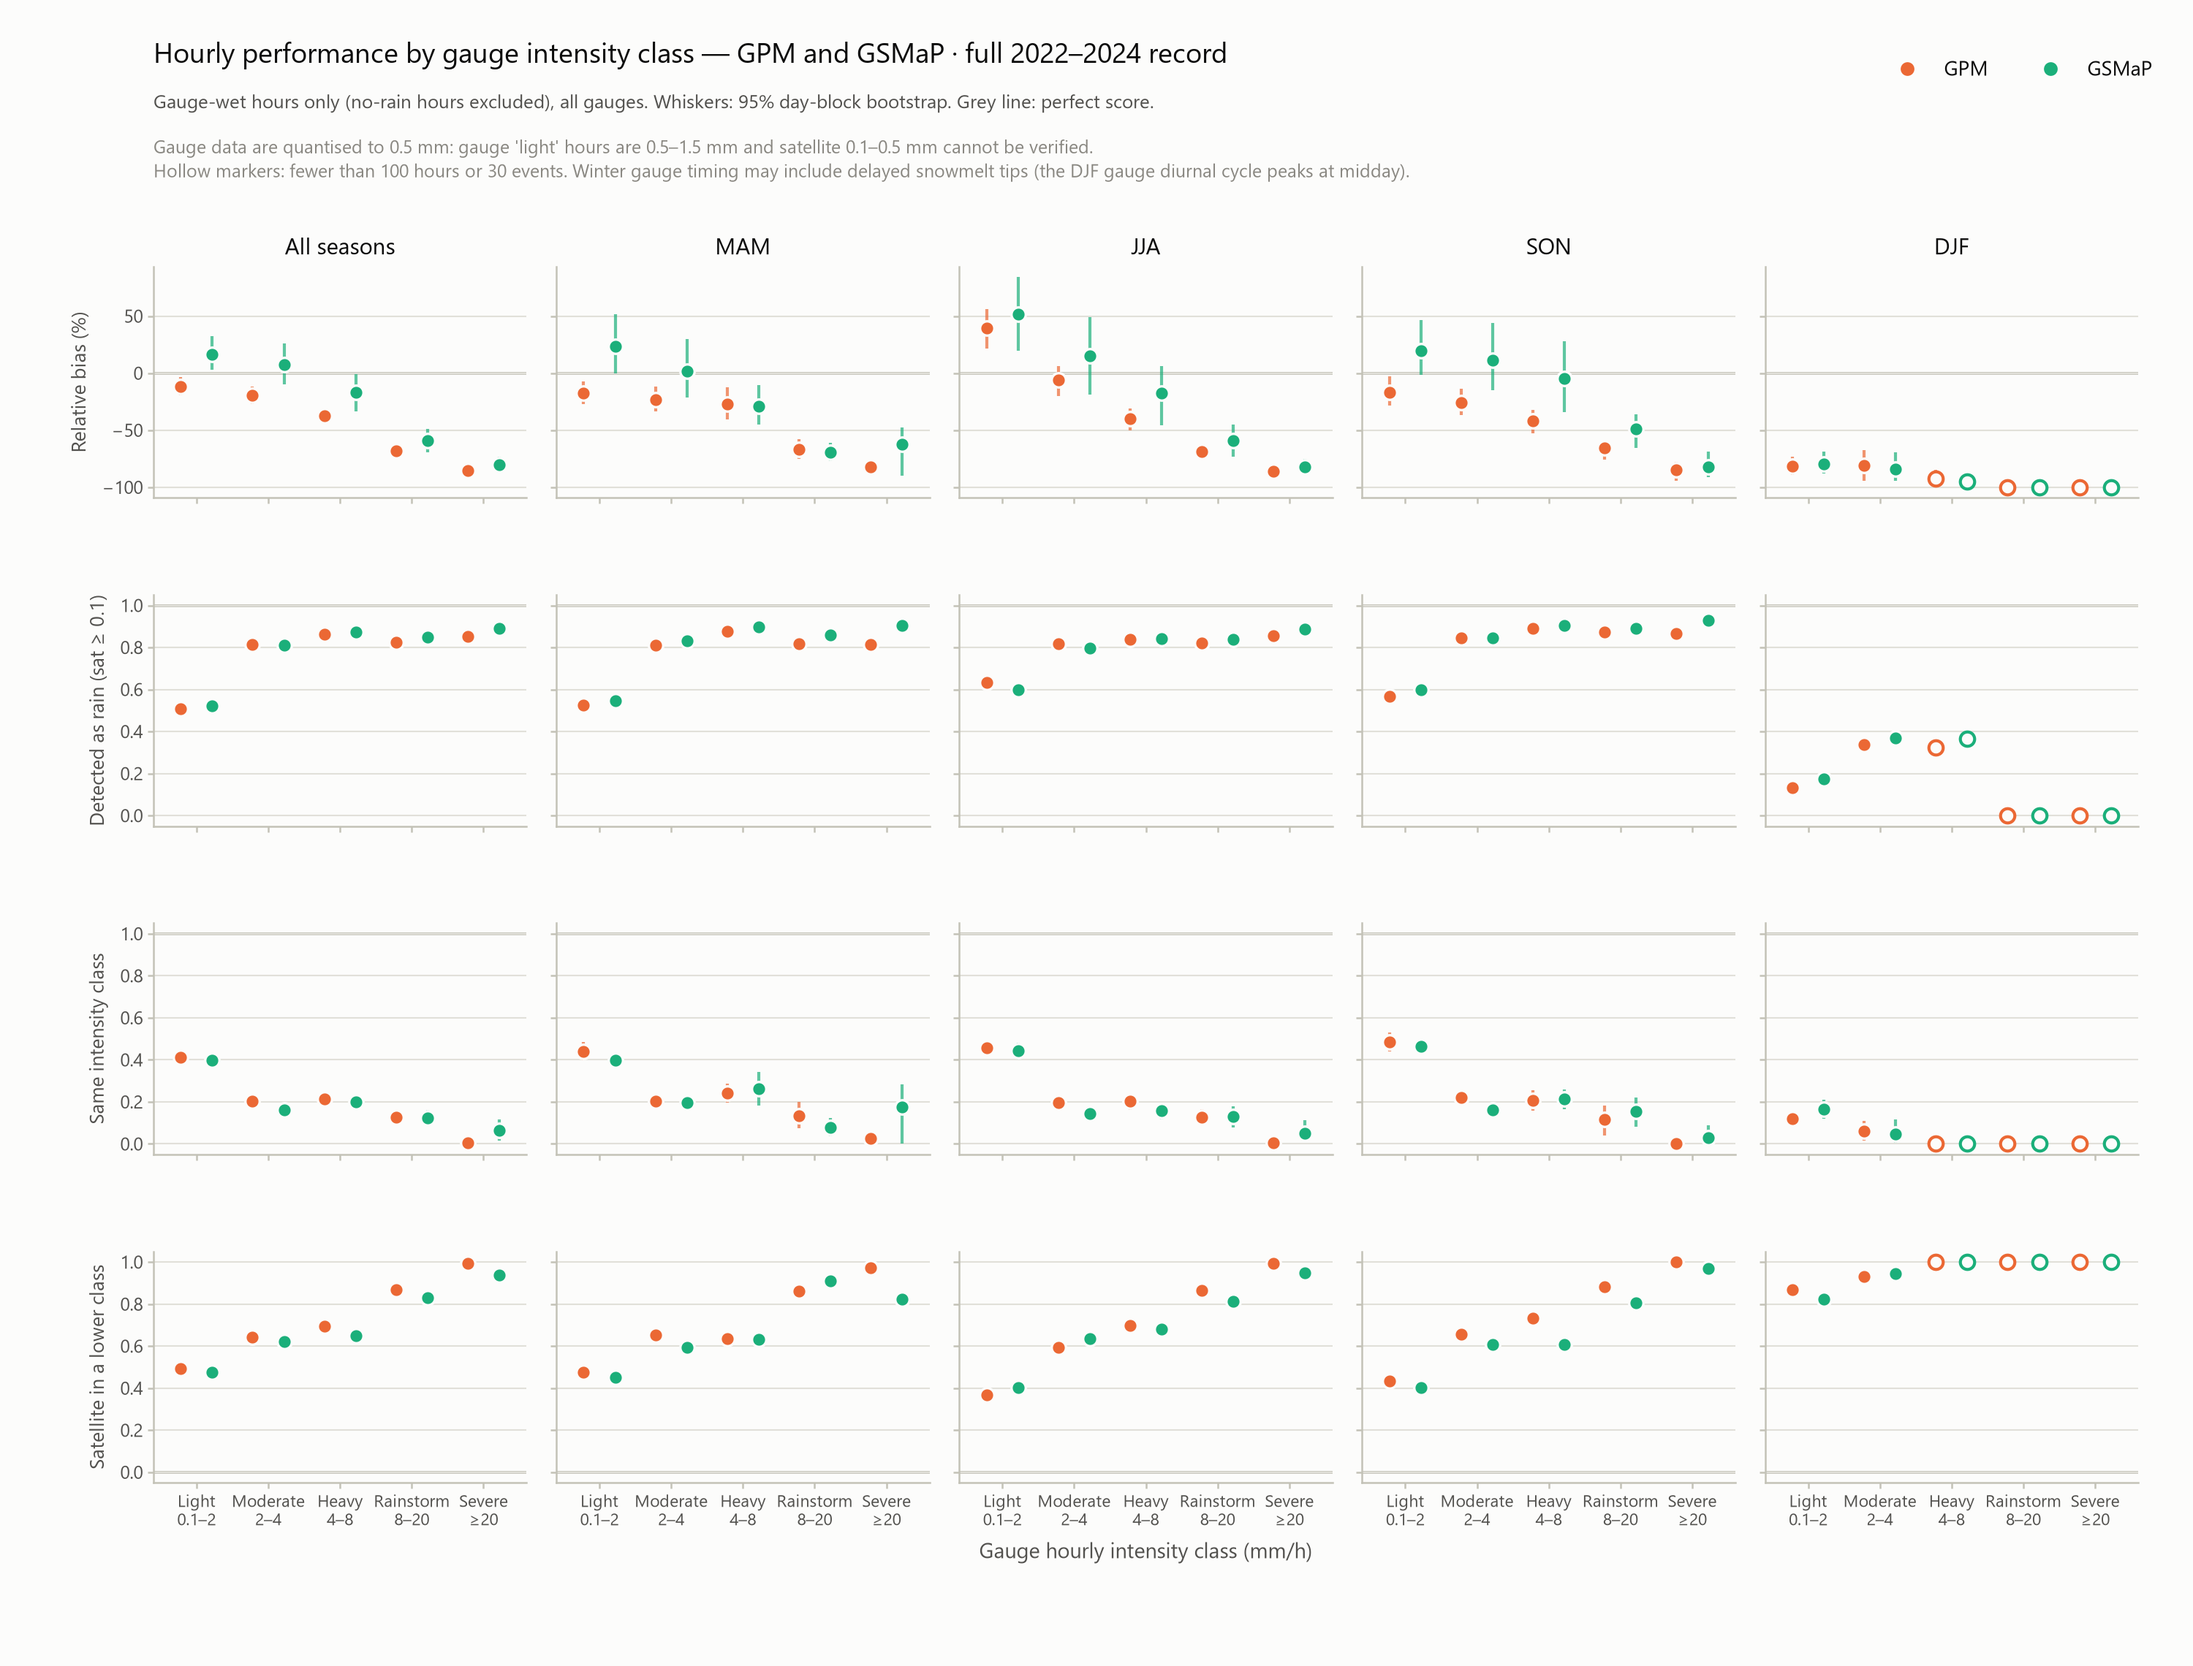
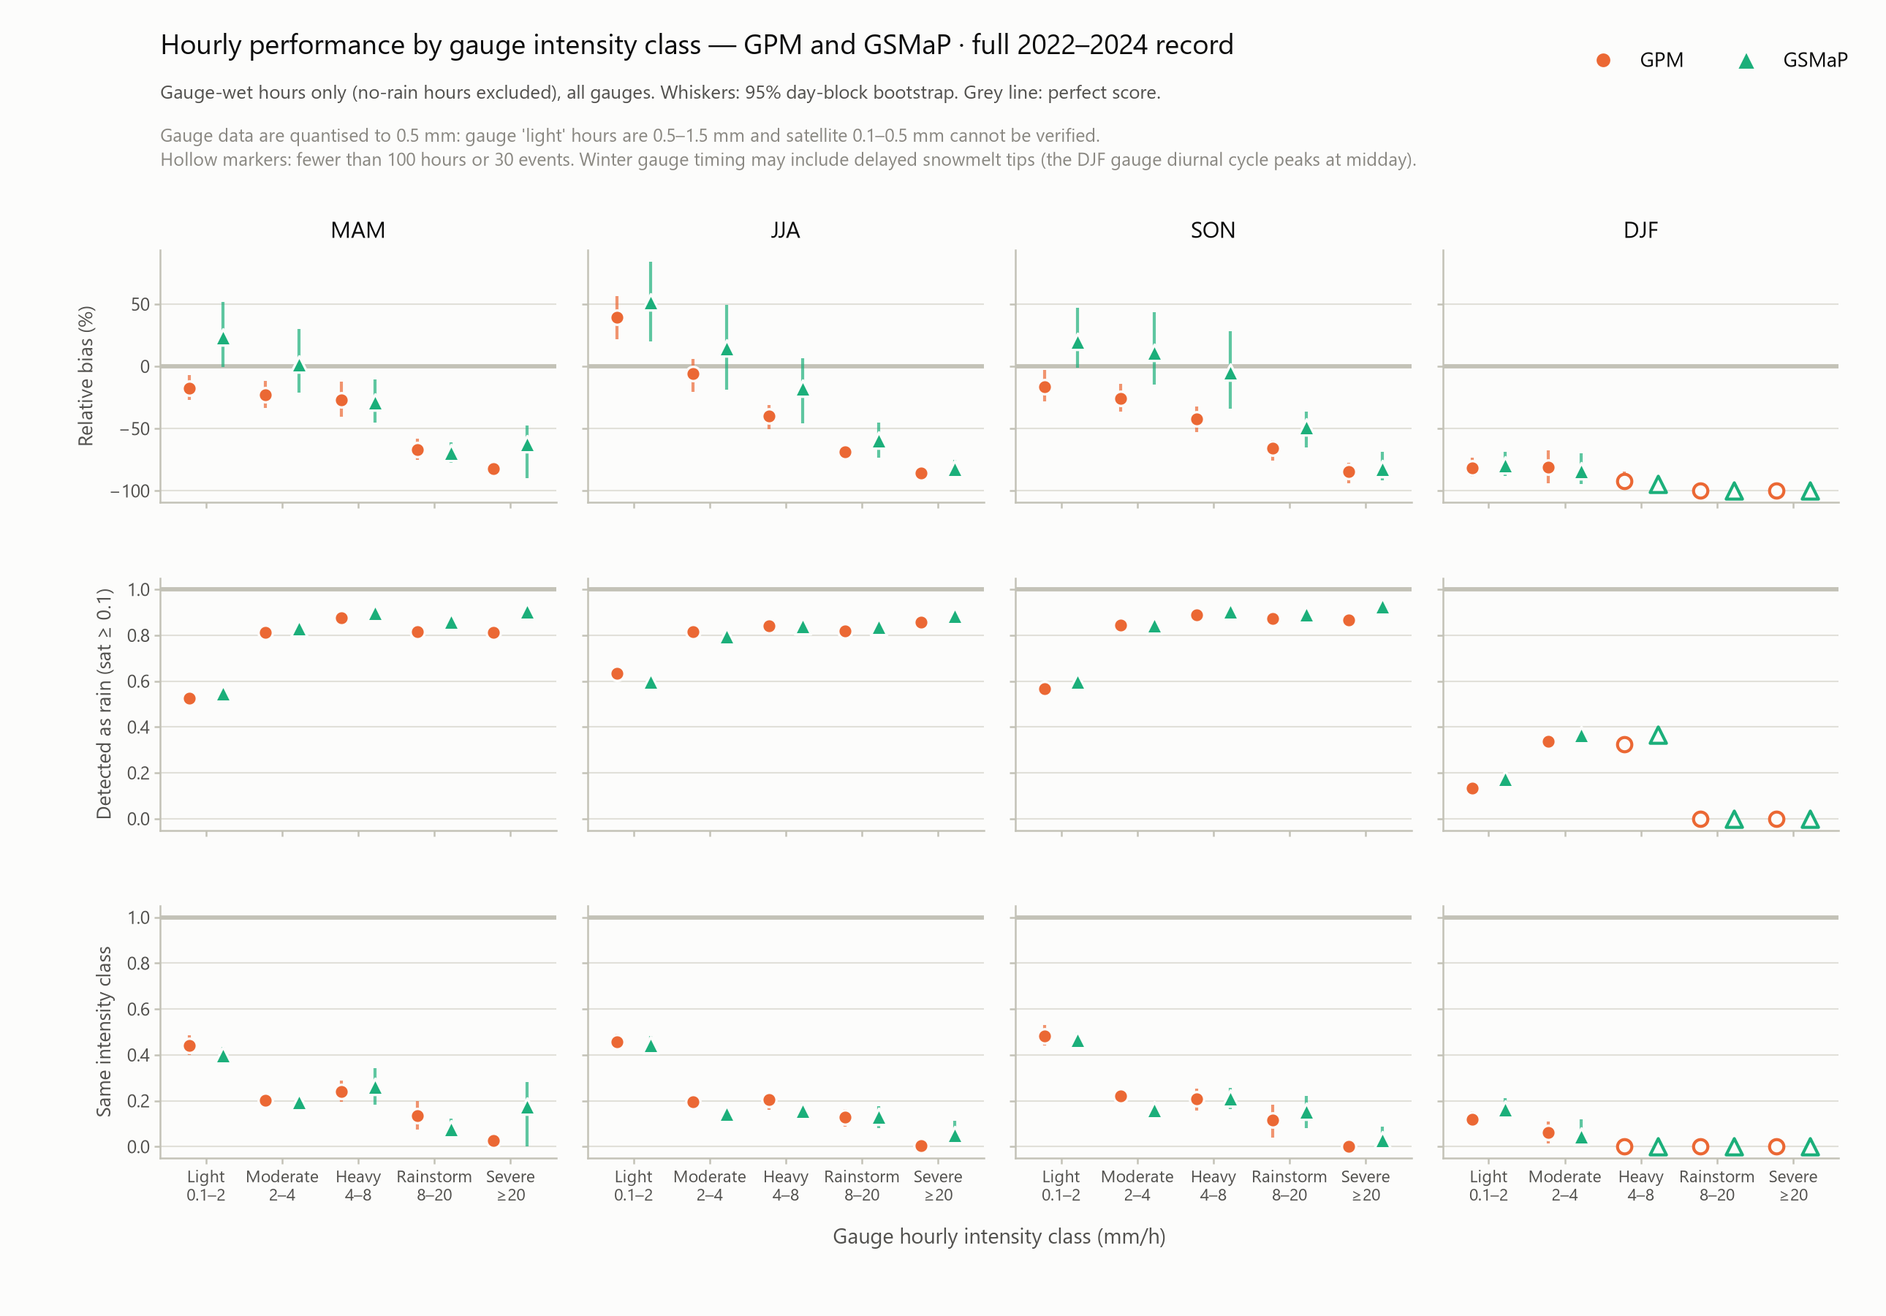
Trim the intensity-class figure to three rows and the four seasons
Drop 'satellite in a lower class', which mirrors 'same intensity class' and
repeats the bias and detection rows, and the pooled 'All seasons' column.
Products get the same shapes as the heavy-rain figures (GPM circle, GSMaP
triangle, FY4B square) in every figure of the script, and the ideal-value line
is drawn thicker above the gridlines. The Q2 finding now cites the same-class
share instead of the dropped metric.

diff --git a/scripts/plot_satellite_temporal_evaluation.py b/scripts/plot_satellite_temporal_evaluation.py
@@ -46,6 +46,8 @@ MUTED = "#898781"
 GRID = "#e1e0d9"
 AXIS = "#c3c2b7"
 PRODUCT_COLORS = {"FY4B": "#2a78d6", "GPM": "#eb6834", "GSMaP": "#1baf7a"}
+# Shapes double-code the products, as in plot_heavy_rain_events.py, so the figures read without colour.
+PRODUCT_MARKERS = {"FY4B": "s", "GPM": "o", "GSMaP": "^"}
 SAMPLE_PRODUCTS = {"all_products": ["FY4B", "GPM", "GSMaP"], "gpm_gsmap_full": ["GPM", "GSMaP"]}
 SAMPLES = ["gpm_gsmap_full"] if GPM_GSMAP_ONLY else list(SAMPLE_PRODUCTS)
 SAMPLE_TITLES = {
@@ -138,21 +140,23 @@ def clean_axis(ax: plt.Axes, grid_axis: str = "y") -> None:
 
 
 def product_legend(fig: plt.Figure, products: list[str], extra: list | None = None, **kwargs) -> None:
-    handles = [Line2D([], [], linestyle="none", marker="o", markersize=5.5, markerfacecolor=PRODUCT_COLORS[p],
-                      markeredgecolor=SURFACE, label=p) for p in products]
+    handles = [Line2D([], [], linestyle="none", marker=PRODUCT_MARKERS[p], markersize=6.5 if PRODUCT_MARKERS[p] == "^" else 5.5,
+                      markerfacecolor=PRODUCT_COLORS[p], markeredgecolor=SURFACE, label=p) for p in products]
     handles += extra or []
     fig.legend(handles=handles, frameon=False, fontsize=6.8, ncol=len(handles), **kwargs)
 
 
-def dots(ax, x, values, color, lo=None, hi=None, hollow=None, size=22):
+def dots(ax, x, values, color, lo=None, hi=None, hollow=None, size=22, marker="o"):
     """One product's values as dots with optional interval whiskers; `hollow` marks low-sample points."""
+    if marker == "^":
+        size *= 1.3   # a triangle reads smaller than a circle of the same area
     x = np.asarray(x, dtype=float)
     values = np.asarray(values, dtype=float)
     hollow = np.zeros(len(values), dtype=bool) if hollow is None else np.asarray(hollow, dtype=bool)
     if lo is not None:
         ax.vlines(x, lo, hi, color=color, linewidth=1.0, alpha=0.7, zorder=2)
-    ax.scatter(x[~hollow], values[~hollow], s=size, color=color, edgecolors=SURFACE, linewidths=0.8, zorder=3)
-    ax.scatter(x[hollow], values[hollow], s=size, facecolors=SURFACE, edgecolors=color, linewidths=1.0, zorder=3)
+    ax.scatter(x[~hollow], values[~hollow], s=size, marker=marker, color=color, edgecolors=SURFACE, linewidths=0.8, zorder=3)
+    ax.scatter(x[hollow], values[hollow], s=size, marker=marker, facecolors=SURFACE, edgecolors=color, linewidths=1.0, zorder=3)
 
 
 # --------------------------------------------------------------------------------------------------
@@ -225,30 +229,30 @@ INTENSITY_PANELS = [
     ("RB_pct", "Relative bias (%)", 0.0, True),
     ("POD_rain", "Detected as rain (sat ≥ 0.1)", 1.0, False),
     ("class_hit", "Same intensity class", 1.0, True),
-    ("under_class", "Satellite in a lower class", 0.0, False),
 ]
 
 
 def fig2_intensity(metrics: list[dict], sample: str, by: str = "season") -> None:
     products = SAMPLE_PRODUCTS[sample]
     # One column per season (all gauges) or per landform region (all seasons).
-    strata = [(s, "all") for s in SEASONS] if by == "season" else [("all", g) for g in ["all"] + REGIONS]
-    fig, axes = plt.subplots(len(INTENSITY_PANELS), len(strata), figsize=(10.0, 7.6), sharey="row")
-    fig.subplots_adjust(left=0.07, right=0.975, top=0.84, bottom=0.11, wspace=0.08, hspace=0.42)
+    # The season split shows the four seasons only; the pooled year stays in the CSV.
+    strata = [(s, "all") for s in SEASONS if s != "all"] if by == "season" else [("all", g) for g in ["all"] + REGIONS]
+    fig, axes = plt.subplots(len(INTENSITY_PANELS), len(strata), figsize=(8.6, 6.0), sharey="row")
+    fig.subplots_adjust(left=0.085, right=0.975, top=0.81, bottom=0.12, wspace=0.08, hspace=0.30)
     x = np.arange(len(CLASSES))
     offsets = np.linspace(-0.22, 0.22, len(products))
     for j, (season, region) in enumerate(strata):
         for i, (key, title, ideal, with_ci) in enumerate(INTENSITY_PANELS):
             ax = axes[i, j]
             clean_axis(ax)
-            ax.axhline(ideal, color=AXIS, linewidth=0.9, zorder=1)
+            ax.axhline(ideal, color=AXIS, linewidth=1.4, zorder=1.8)  # above the gridlines (1.5)
             for offset, product in zip(offsets, products):
                 rows = [one(metrics, sample=sample, product=product, season=season, region=region, gauge_class=c) for c in CLASSES]
                 values = [r[key] if r and r["n"] > 0 else np.nan for r in rows]
                 lo = [r[f"{key}_lo"] if r and with_ci and r["n"] > 0 else np.nan for r in rows] if with_ci else None
                 hi = [r[f"{key}_hi"] if r and with_ci and r["n"] > 0 else np.nan for r in rows] if with_ci else None
                 hollow = [bool(r["low_sample"]) if r else True for r in rows]
-                dots(ax, x + offset, values, PRODUCT_COLORS[product], lo, hi, hollow)
+                dots(ax, x + offset, values, PRODUCT_COLORS[product], lo, hi, hollow, marker=PRODUCT_MARKERS[product])
             ax.set_xticks(x)
             ax.set_xlim(-0.6, len(CLASSES) - 0.4)
             ax.set_xticklabels(CLASS_LABELS if i == len(INTENSITY_PANELS) - 1 else [], fontsize=5.6)
@@ -257,13 +261,15 @@ def fig2_intensity(metrics: list[dict], sample: str, by: str = "season") -> None
                              ("All seasons" if season == "all" else season), pad=4)
             if j == 0:
                 ax.set_ylabel(title, fontsize=6.5)
-    axes[-1, len(strata) // 2].set_xlabel("Gauge hourly intensity class (mm/h)")
+    # Centred under the whole grid, which works for an even number of columns too.
+    left, right = axes[-1, 0].get_position().x0, axes[-1, -1].get_position().x1
+    fig.text((left + right) / 2, 0.055, "Gauge hourly intensity class (mm/h)", ha="center", color=INK_SECONDARY)
     product_legend(fig, products, loc="upper right", bbox_to_anchor=(0.99, 0.975))
-    fig.suptitle(f"Hourly performance by gauge intensity class — {SAMPLE_TITLES[sample]}", x=0.07, ha="left", fontsize=9, y=0.975)
-    fig.text(0.07, 0.935, "Gauge-wet hours only (no-rain hours excluded), " +
+    fig.suptitle(f"Hourly performance by gauge intensity class — {SAMPLE_TITLES[sample]}", x=0.085, ha="left", fontsize=9, y=0.975)
+    fig.text(0.085, 0.925, "Gauge-wet hours only (no-rain hours excluded), " +
              ("all gauges" if by == "season" else "all seasons, gauges grouped by local relief") + ". Whiskers: 95% day-block bootstrap. "
              "Grey line: perfect score.", ha="left", fontsize=6.3, color=INK_SECONDARY)
-    fig.text(0.07, 0.918, CAVEAT, ha="left", va="top", fontsize=6.0, color=MUTED, linespacing=1.4)
+    fig.text(0.085, 0.905, CAVEAT, ha="left", va="top", fontsize=6.0, color=MUTED, linespacing=1.4)
     save(fig, f"fig2_intensity_classes_{sample}" if by == "season" else f"fig2_intensity_classes_region_{sample}")
 
 
@@ -409,7 +415,8 @@ def fig5_events(summary: list[dict]) -> None:
                     hi = [r[f"{key}_hi"] for r in rows]
                 else:
                     lo = hi = None
-                dots(ax, x + offset, values, PRODUCT_COLORS[product], lo, hi, [r["low_sample"] for r in rows])
+                dots(ax, x + offset, values, PRODUCT_COLORS[product], lo, hi, [r["low_sample"] for r in rows],
+                     marker=PRODUCT_MARKERS[product])
             ax.set_xticks(x)
             ax.set_xticklabels(labels if i == len(SAMPLES) - 1 else [], rotation=35, ha="right", fontsize=5.8)
             if i == 0:
@@ -568,7 +575,8 @@ def fig8_scorecard(metrics, events, diurnal_summary, station_summary, sample: st
             for offset, product in zip(offsets, products):
                 pairs = [getter(product, season, region) for season in SEASONS]
                 values = [np.nan if v is None else v for v, _ in pairs]
-                dots(ax, x + offset, values, PRODUCT_COLORS[product], hollow=[low for _, low in pairs])
+                dots(ax, x + offset, values, PRODUCT_COLORS[product], hollow=[low for _, low in pairs],
+                     marker=PRODUCT_MARKERS[product])
             ax.set_xticks(x)
             ax.set_xticklabels(["All", "MAM", "JJA", "SON", "DJF"] if i == len(panels) - 1 else [], fontsize=6)
             if i == 0:
@@ -619,7 +627,8 @@ def fig9_regional_series(regional: list[dict]) -> None:
                               ("all_products", "GSMaP"): 0.29}[(sample, product)]
                     values = [(one(regional, sample=sample, product=product, region=region, season="all", timescale_h=t) or {}).get(key, np.nan)
                               for t in timescales]
-                    dots(ax, x + offset, values, PRODUCT_COLORS[product], hollow=[hollow] * len(values))
+                    dots(ax, x + offset, values, PRODUCT_COLORS[product], hollow=[hollow] * len(values),
+                         marker=PRODUCT_MARKERS[product])
             ax.set_xticks(x)
             ax.set_xlim(-0.5, len(timescales) - 0.5)
             ax.set_xticklabels(["1 h", "3 h", "24 h"] if i == len(SERIES_PANELS) - 1 else [])
